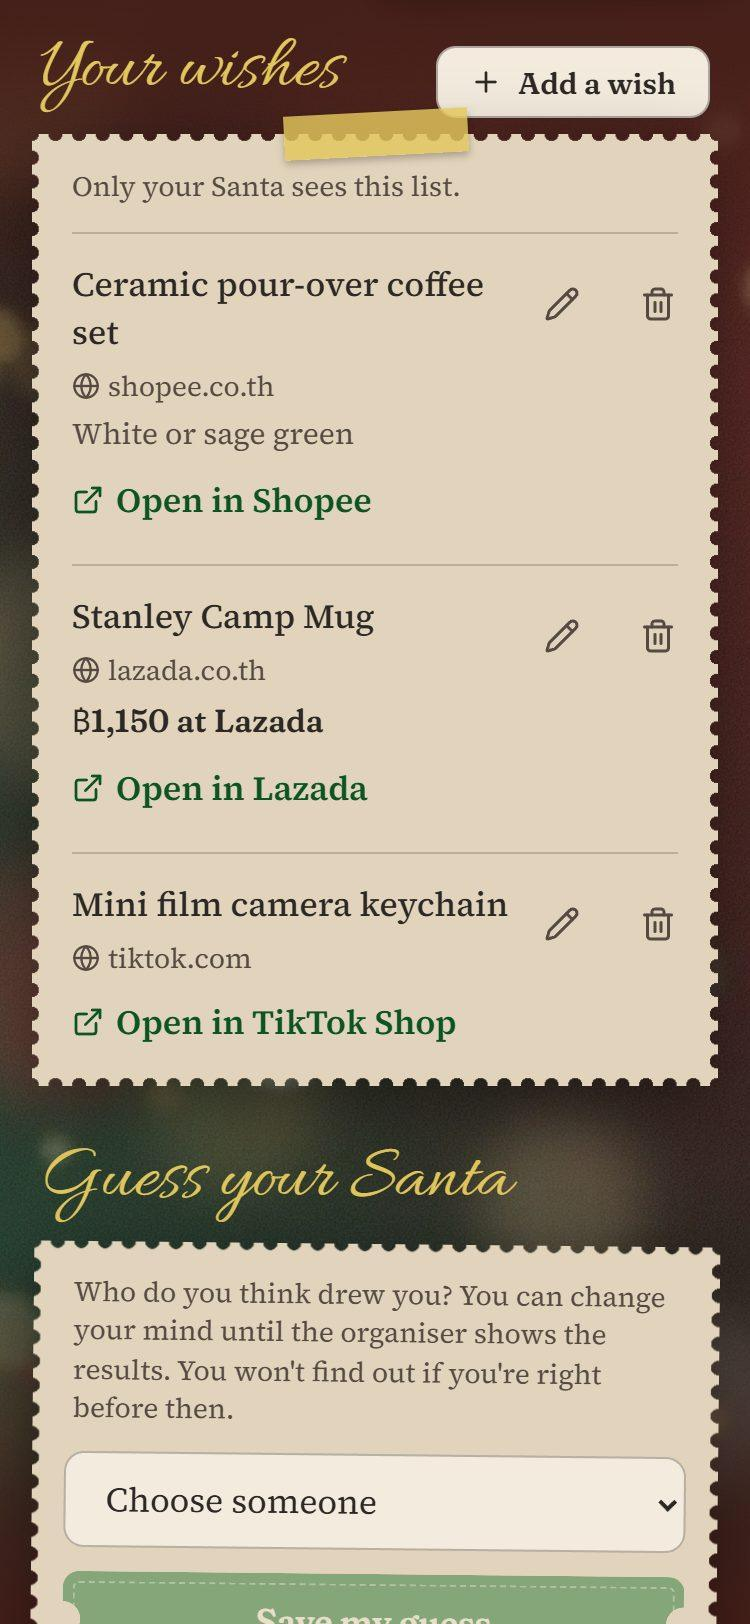
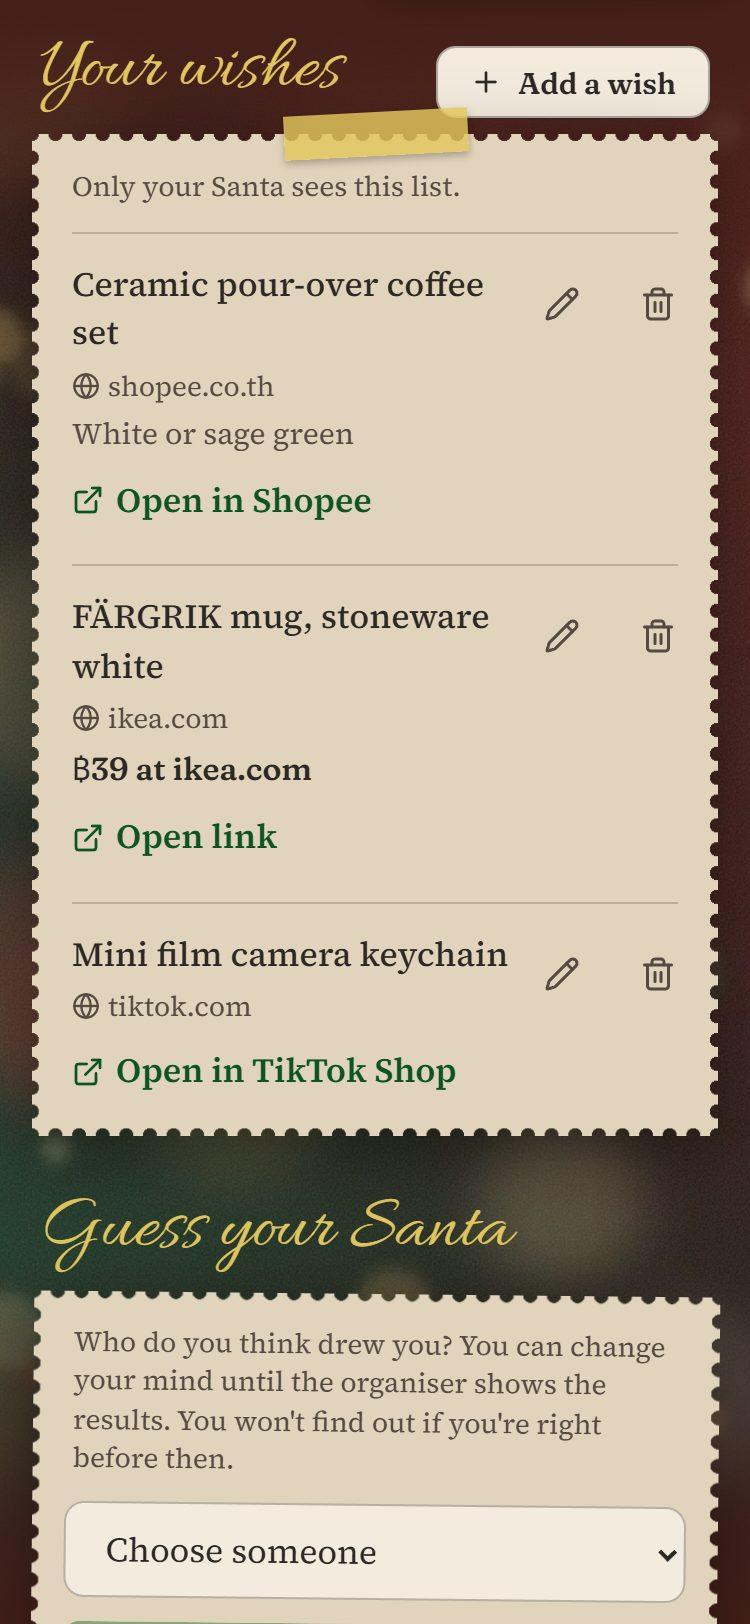
Say which shops really show prices on the live site
Tested from the live server, only shops that let price checkers in, like
IKEA, Central and B2S, give a price; Lazada, JIB, Banana and most big
shops turn away automated visits from cloud servers. The README now says
so, and the wish list screenshots show an IKEA price instead of Lazada's.

diff --git a/README.md b/README.md
@@ -24,7 +24,7 @@ Run a gift exchange from one link. Create a group, share the link, and everyone 
   <img src="docs/screenshots/reveal.jpg" alt="The name you drew, on a gift tag" width="240">
 </p>
 <p>
-  <img src="docs/screenshots/wishes.jpg" alt="A wish list where every link shows its website, and the Lazada one its price from the shop" width="240">
+  <img src="docs/screenshots/wishes.jpg" alt="A wish list where every link shows its website, and the IKEA one its price from the shop" width="240">
   <img src="docs/screenshots/status.jpg" alt="Organiser's list of who has opened their name" width="240">
   <img src="docs/screenshots/results.jpg" alt="Table of who guessed their Santa correctly" width="240">
 </p>
@@ -49,7 +49,7 @@ The screenshots use a demo group with made-up names.
 - **Join with your name and a 4-digit PIN.** The PIN opens your page on another phone.
 - **Unwrap a gift** to see who you drew, with falling snow and confetti. It wraps itself again on each visit, so the name is never on screen by surprise.
 - **Wish lists:** paste a link from any shop. The site recognises Shopee, Lazada, TikTok Shop, Taobao, Tmall, JD, AliExpress, Temu, SHEIN, Amazon, eBay and Etsy, and fills in the product name when the link includes one. Every link shows the website it really goes to, so a link can't pass for a shop it isn't.
-- **Real prices:** there's no price box, so nobody can list an expensive gift as cheap. Where the shop's page states its price openly (Lazada, IKEA, Central, JIB, Banana and many smaller shops), the site reads it, shows it as "฿1,150 at Lazada", and checks it again every six hours. It says who it is when it asks, and shops that keep prices from bots, like Shopee, Power Buy and Uniqlo, just show no price.
+- **Real prices:** there's no price box, so nobody can list an expensive gift as cheap. For shops that let price checkers in, like IKEA, Central and B2S, the site reads the price from the shop's own page, shows it as "฿39 at ikea.com", and checks it again every six hours. It says who it is when it asks, and many big shops turn away automated visitors from cloud servers (Shopee, Lazada, JIB, Banana, Power Buy, Watsons, Uniqlo, Amazon and Etsy among them), so their links show the website but no price.
 - **A few things about you:** likes, sizes and "please no", for people without links to add.
 - **Gift search:** search Shopee, Lazada, TikTok, Taobao, AliExpress and Temu, starting from what your person likes.
 - **Anonymous messages:** ask your person a question. They see "Your Santa" and can reply without learning who asked.
